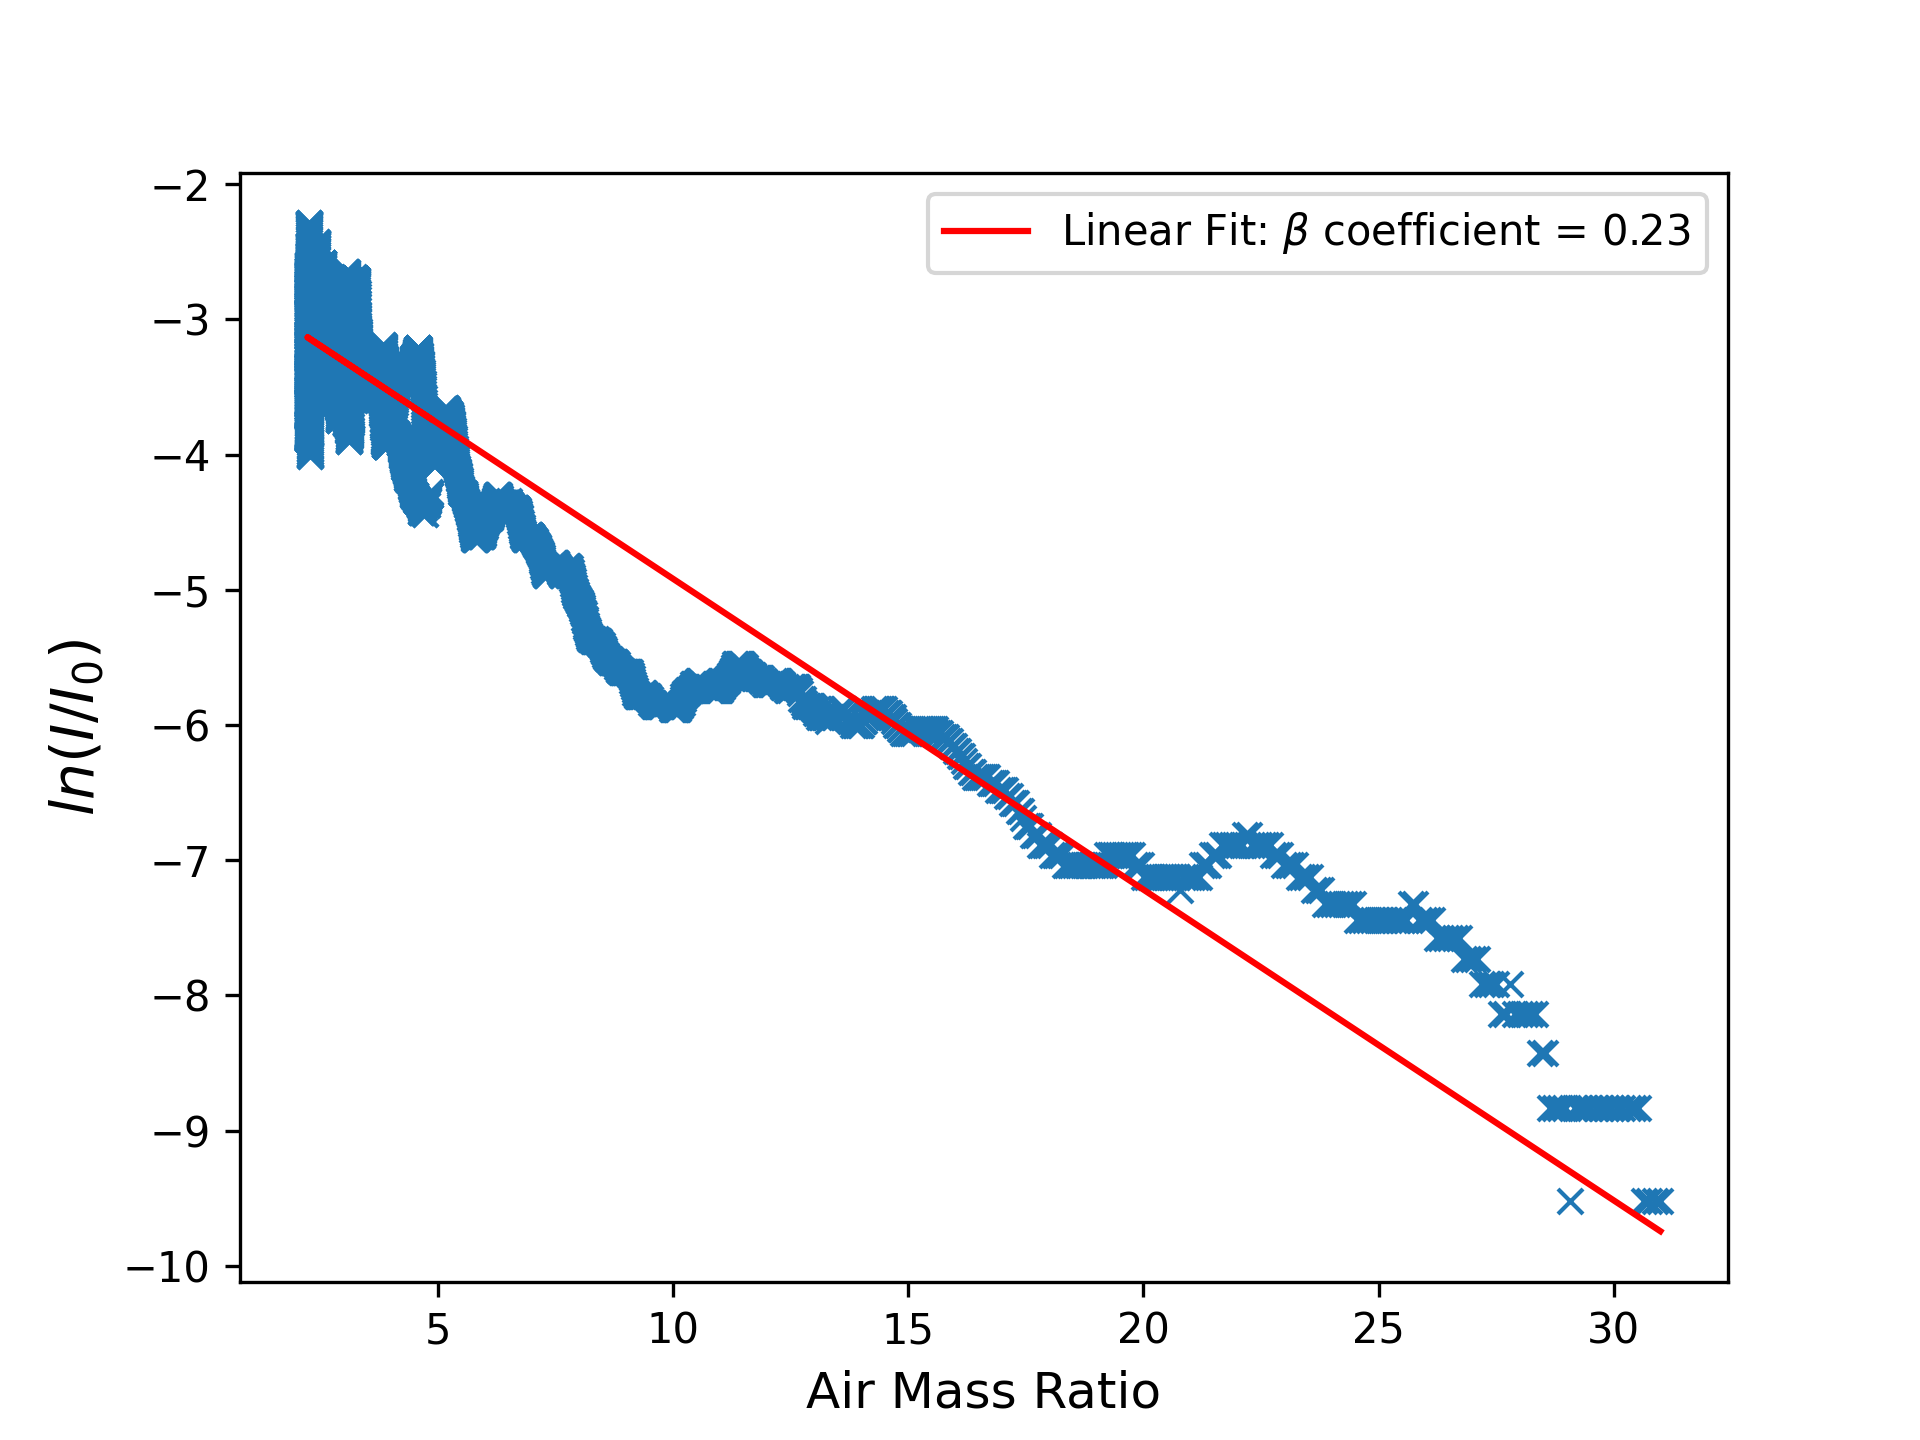
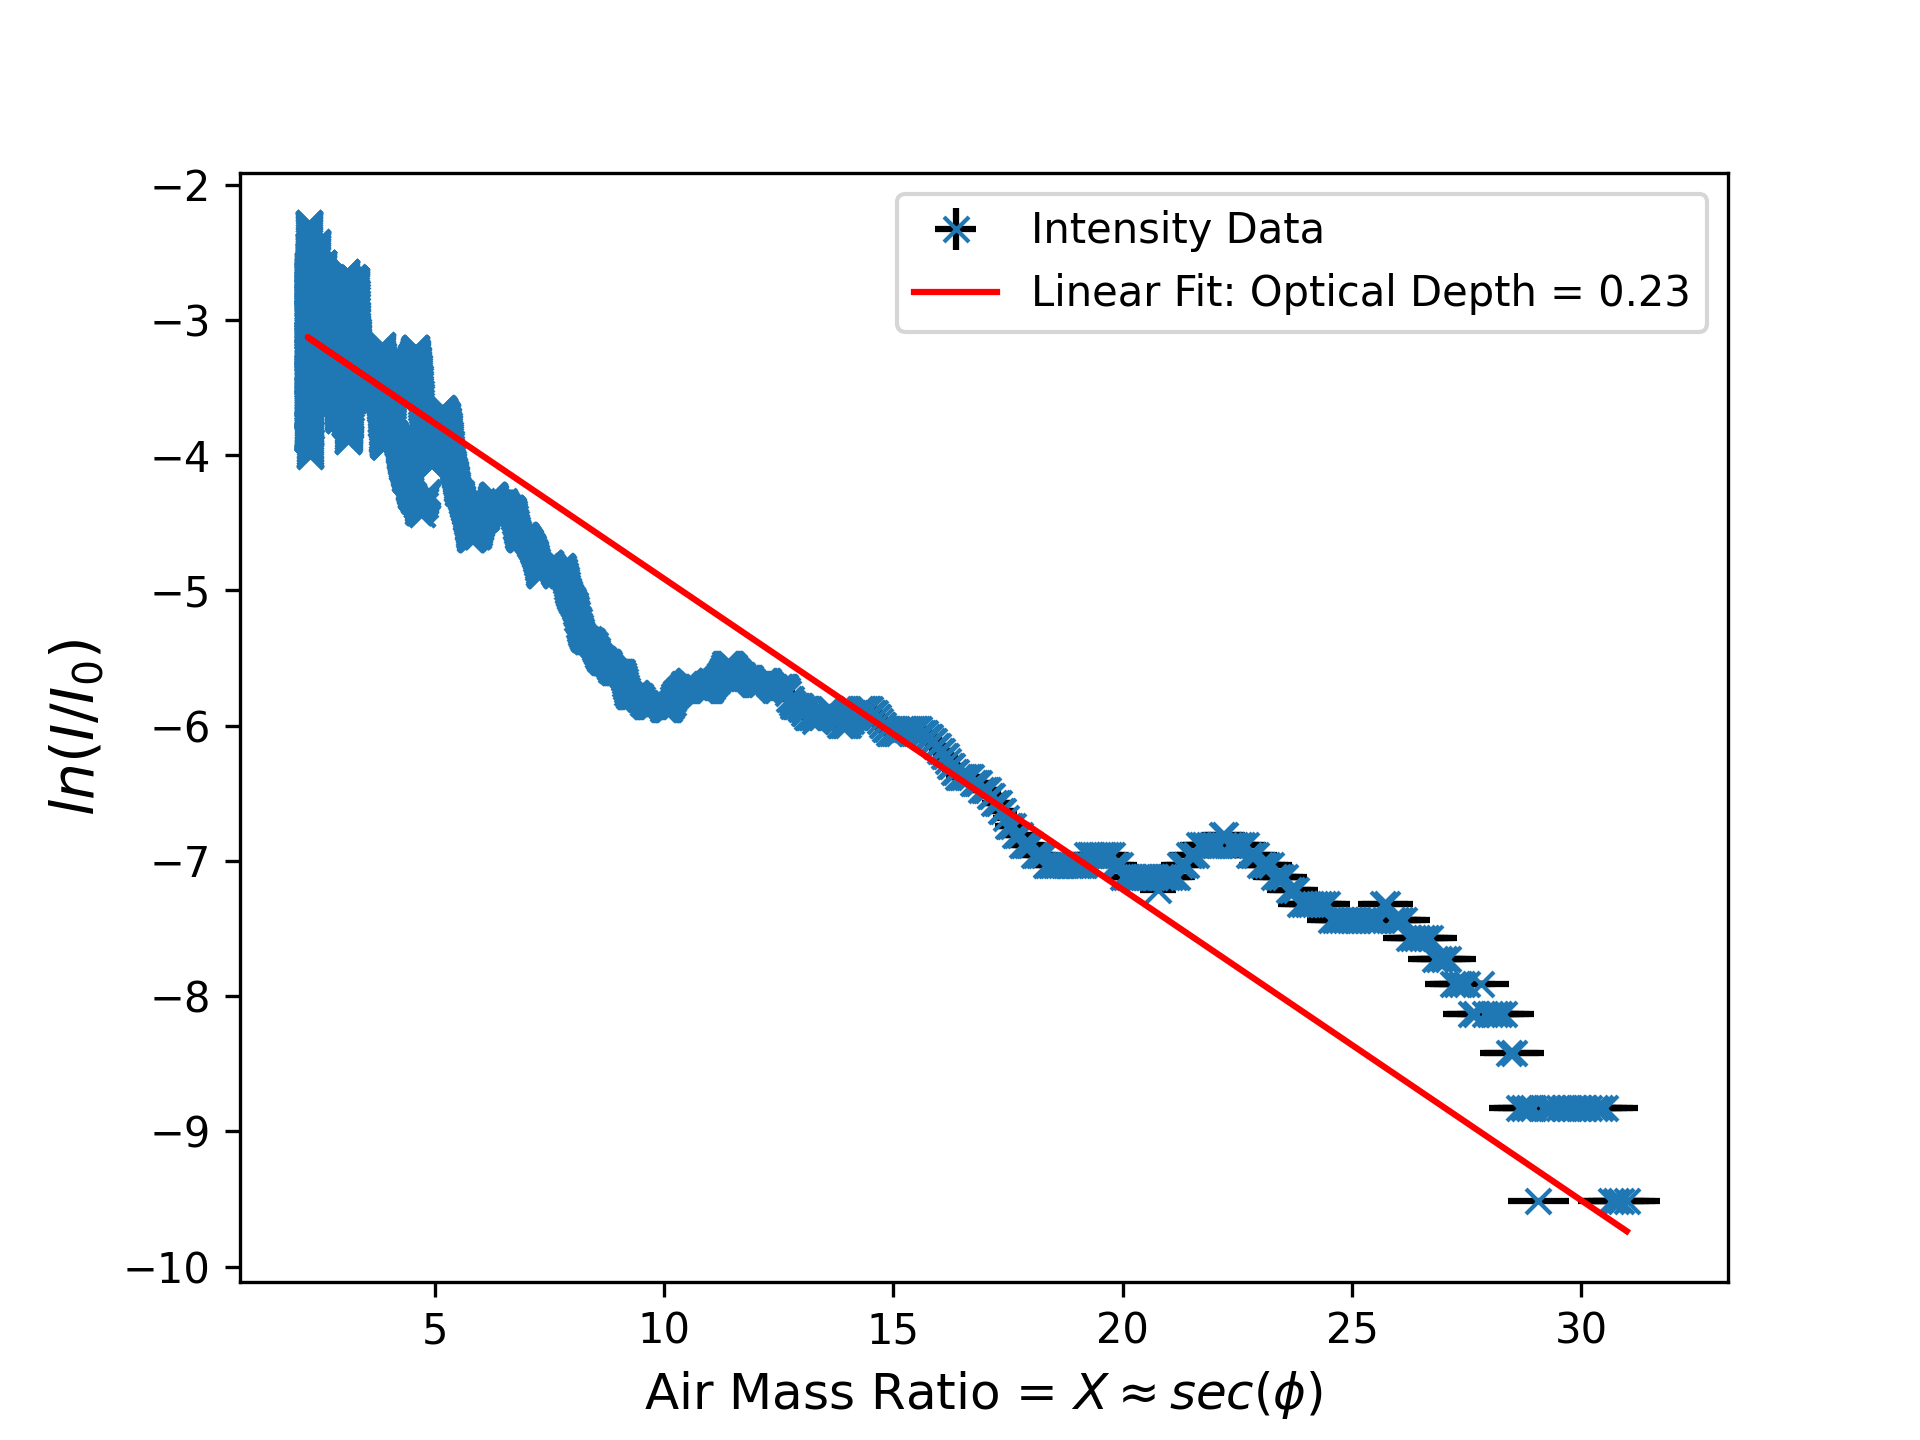
grpahs

diff --git a/optical_depth_automated.py b/optical_depth_automated.py
@@ -43,7 +43,18 @@ def calculate_optical_depth(slope):
 #     return zenith_angles
 
 
-# hour_change is the change of zenith angle per hour
+def calculations_for_plotting():
+    # takes the data & performs the plotting by hour or can just chnage the input files
+    pass
+
+def plot_clear_sky(x):
+    m, c =  -0.17716701548618222, -3.291693589488445
+    x = np.array(x)
+    y = m * x + c
+    
+    plt.plot(x, y, label='Optical Depth for Clear Sky : 0.177' , color = 'red')
+
+
 def plotting(file):
     # Load the data, assuming the 4th column contains irradiance values and skipping the first 4 rows
     # irr_data = np.loadtxt('C:\Users\aryan\OneDrive - Imperial College London\Physics\Year 3 Lab\Solar Radiation\F1-solar_radiation\data\LOG240215-0945.csv', delimiter=',', skiprows=3, usecols=[3])
@@ -73,32 +84,47 @@ def plotting(file):
 
 
     # Assume I_0 is known or has been measured/calculated beforehand
-    I_0 = 1367 # mean extra terrestrial irradiance value
+    I_0 = 1361 # mean extra terrestrial irradiance value - acurate to 0.1% 
 
     # Calculate air mass for each zenith angle
     air_masses = calculate_air_mass(zenith_angles)
 
+
+    # errors
+    error_factor = 10
+    error_factor_2 = 1
+    # the most zenith angle can change in 5s is ~ 0.013 degrees in london => allow for 0.013/2 degrees error on zenith angles
+    angles_err_small = calculate_air_mass(zenith_angles-0.013/2)
+    angles_err_big = calculate_air_mass(zenith_angles+0.013/2)
+    air_masses_err = (np.array(angles_err_big) - np.array(angles_err_small))/2
+    
+
+
     # Calculate the natural logarithm of the ratio of I/I_0 for each data point
     ln_I_ratio = np.log(irr_data / I_0)
+    ln_I_ratio_max = np.log(irr_data+0.05 / (I_0 - 1))
+    ln_I_ratio_min = np.log(irr_data-0.05 / (I_0 + 1))
+    ln_I_ratio_err = (ln_I_ratio_max - ln_I_ratio_min)/2
+    air_masses = np.array(air_masses)
 
     # Plot the data
-    plt.plot(air_masses[:len(ln_I_ratio)], ln_I_ratio, 'x')###############################3
-    plt.xlabel('Air Mass Ratio', fontsize=12)
+    plt.errorbar(air_masses, ln_I_ratio, fmt='x', label='Intensity Data', yerr=ln_I_ratio_err*error_factor*error_factor_2, xerr=air_masses_err*error_factor, ecolor='black')
+    plt.xlabel('Air Mass Ratio = $X \\approx sec (\phi)$', fontsize=12)
     plt.ylabel('$ln( I / I_0 )$', fontsize=14)
 
     # Perform a linear fit to the data
-    coefficients = np.polyfit(air_masses[:len(ln_I_ratio)], ln_I_ratio, 1)###############################3
+    coefficients = np.polyfit(air_masses, ln_I_ratio, 1)
     slope, intercept = coefficients
 
     # Calculate the optical depth using the slope of the linear fit
     optical_depth = calculate_optical_depth(slope)
 
     # Plot the linear fit line
-    fit_line = np.polyval(coefficients, air_masses[:len(ln_I_ratio)]) ###############################3
-    plt.plot(air_masses[:len(ln_I_ratio)], fit_line, label=f'Linear Fit: $ \\beta $ coefficient = {optical_depth:.2f}', color='red')###############################3
+    fit_line = np.polyval(coefficients, air_masses)
+    plt.errorbar(air_masses, fit_line, label=f'Linear Fit: Optical Depth = {optical_depth:.2f}', color='red')
     plt.legend()
     # plt.title('Optical Depth vs Air Mass')
-    end_points = [fit_line[0], fit_line[len(ln_I_ratio)-1]]   ###############################3
+    end_points = [fit_line[0], fit_line[-1]]
     # plt.ylim(min(end_points)-0.05, max(end_points)+0.05)
     plt.savefig('data\\optical_depth.png', dpi=300)
     plt.close()
@@ -110,26 +136,31 @@ def plotting(file):
     # for direct irr only
     if 0.0 in irr_data_direct:
         print('0.0 in irr_data_direct')
-        [0.001 for i in irr_data_direct if i == 0.0]
+
     ln_I_ratio = np.log(irr_data_direct / I_0)
+    ln_I_ratio_max = np.log(irr_data_direct+0.05 / (I_0 - 1))
+    ln_I_ratio_min = np.log(irr_data_direct-0.05 / (I_0 + 1))
+    ln_I_ratio_err = (ln_I_ratio_max - ln_I_ratio_min)/2
     # Plot the data
-    plt.plot(air_masses[:len(ln_I_ratio)], ln_I_ratio, 'x')###############################3
-    plt.xlabel('Air Mass Ratio', fontsize=12)
+    plt.errorbar(air_masses, ln_I_ratio, fmt='x', label='Intensity Data', yerr=ln_I_ratio_err*error_factor*error_factor_2, xerr=air_masses_err*error_factor, ecolor='black')
+    plt.xlabel('Air Mass Ratio = $X \\approx sec (\phi)$', fontsize=12)
     plt.ylabel('$ln( I / I_0 )$', fontsize=14)
 
     # Perform a linear fit to the data
-    coefficients = np.polyfit(air_masses[:len(ln_I_ratio)], ln_I_ratio, 1)###############################3
+    coefficients = np.polyfit(air_masses, ln_I_ratio, 1)
     slope, intercept = coefficients
+    print('slope', slope, 'intercept', intercept)
 
     # Calculate the optical depth using the slope of the linear fit
     optical_depth = calculate_optical_depth(slope)
 
     # Plot the linear fit line
-    fit_line = np.polyval(coefficients, air_masses[:len(ln_I_ratio)]) ###############################3
-    plt.plot(air_masses[:len(ln_I_ratio)], fit_line, label=f'Linear Fit: $ \\beta $ coefficient = {optical_depth:.2f}', color='red')###############################3
+    fit_line = np.polyval(coefficients, air_masses)
+    # plt.errorbar(air_masses, fit_line, label=f'Linear Fit: Optical Depth = {optical_depth:.2f}', color='red')
+    plot_clear_sky(air_masses)  
     plt.legend()
     # plt.title('Optical Depth vs Air Mass')
-    end_points = [fit_line[0], fit_line[len(ln_I_ratio)-1]]   ###############################3
+    end_points = [fit_line[0], fit_line[-1]] 
     # plt.ylim(min(end_points)-0.05, max(end_points)+0.05)
     plt.savefig('data\\optical_depth_direct.png', dpi=300)
     plt.close()

diff --git a/main.py b/main.py
@@ -5,7 +5,7 @@ import functions as f
 import matplotlib.pyplot as plt
 import optical_depth_automated as optical
 
-file = r'data\LOG240216-0934.csv'
+file = r'data\LOG240217-0841.csv'
 
 
 data = f.import_data(file)
@@ -15,7 +15,14 @@ f.plot_data(time, intensity, temp)
 optical.plotting(file)
 
 
+
 f.rm()
+
+
+
+
+
+
 
 # #Calculating Trasnmittivity from SZA & Optical Depths (based on Beer-Lambert Law)
 # transmittivities = np.exp(-optical_depth/ np.cos(zenith_angles))
